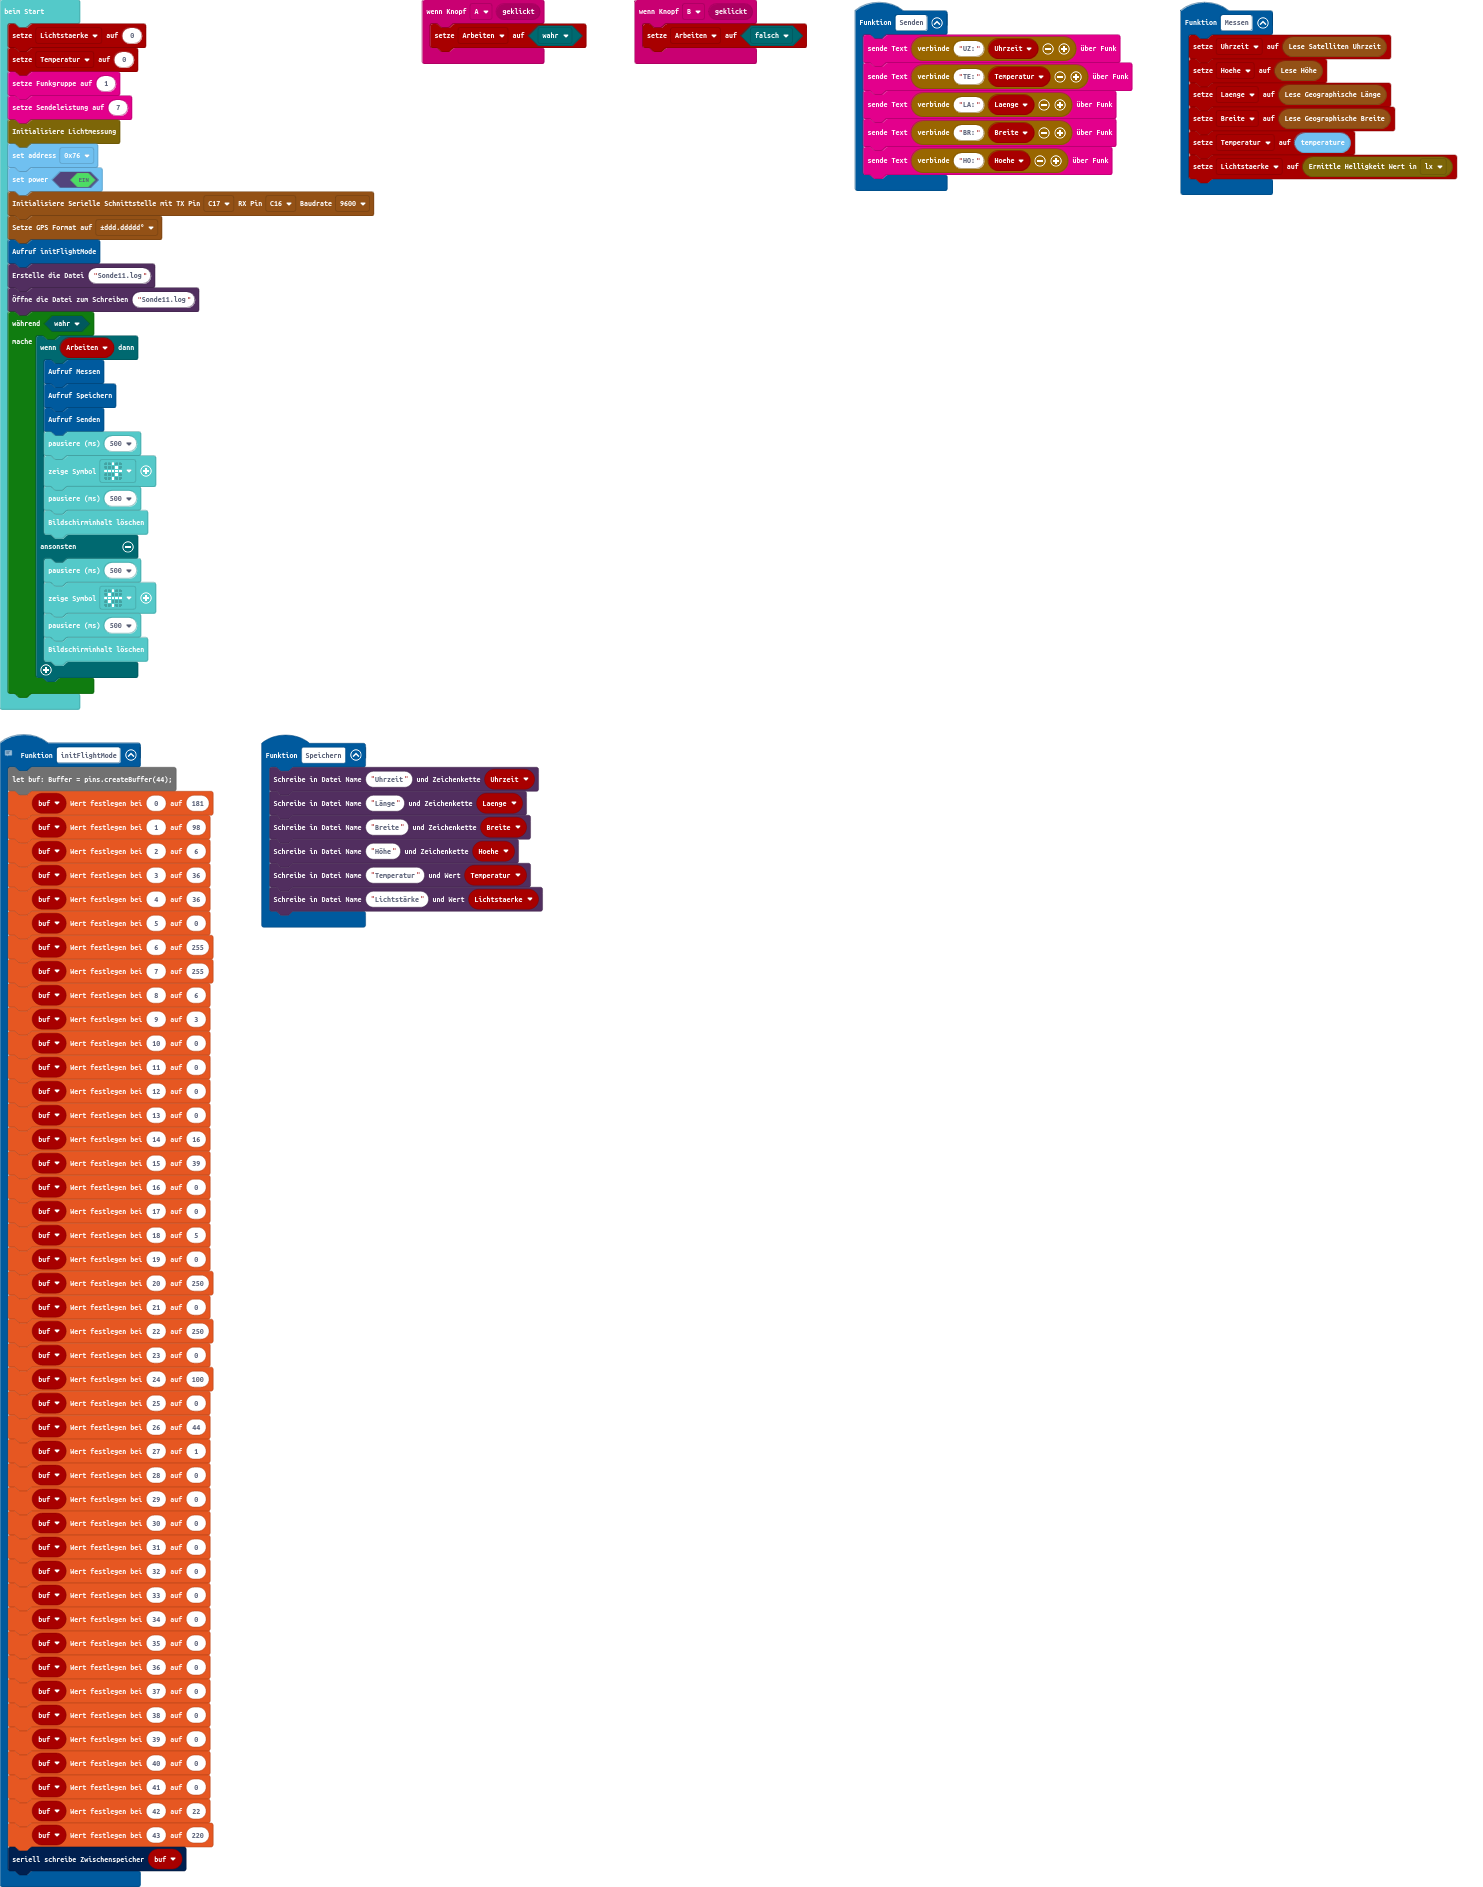
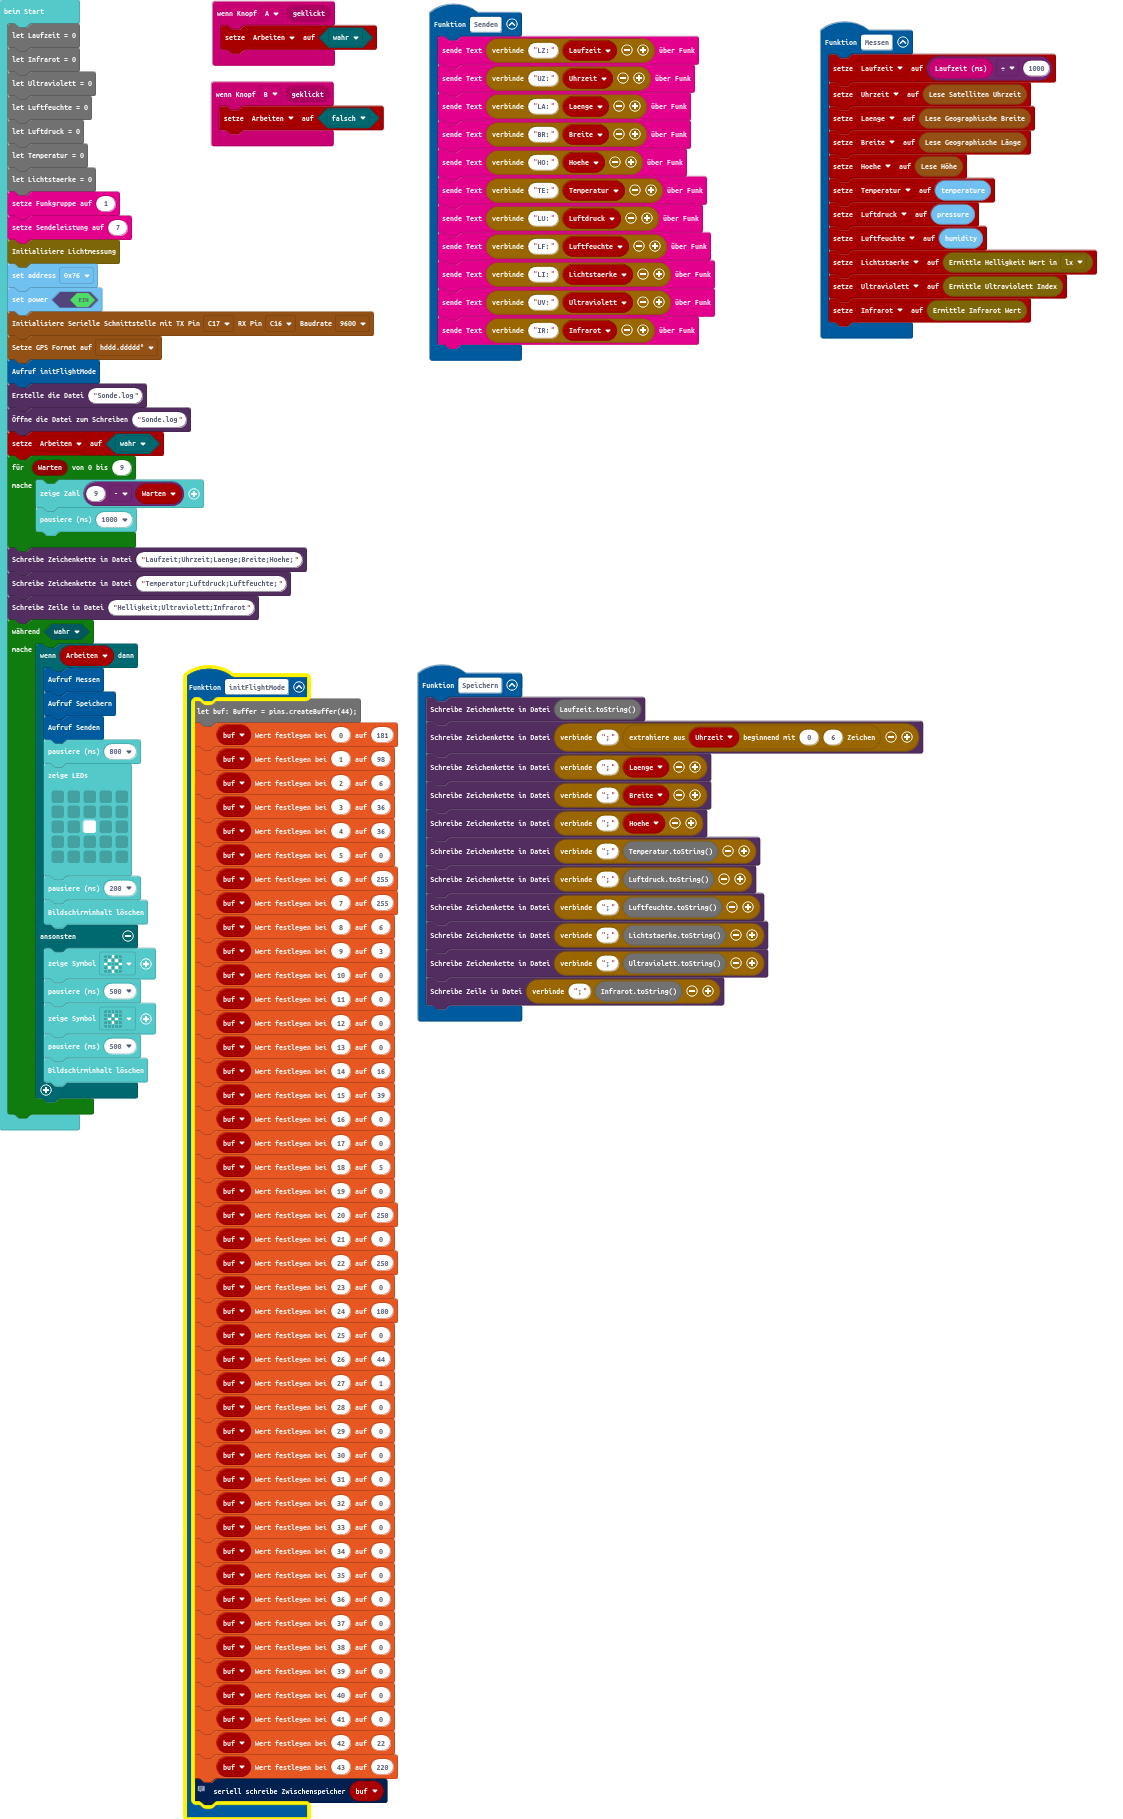
Bereit zum Start

diff --git a/main.ts b/main.ts
@@ -1,17 +1,28 @@
 function Senden () {
+    radio.sendString("LZ:" + Laufzeit)
     radio.sendString("UZ:" + Uhrzeit)
-    radio.sendString("TE:" + Temperatur)
     radio.sendString("LA:" + Laenge)
     radio.sendString("BR:" + Breite)
     radio.sendString("HO:" + Hoehe)
+    radio.sendString("TE:" + Temperatur)
+    radio.sendString("LU:" + Luftdruck)
+    radio.sendString("LF:" + Luftfeuchte)
+    radio.sendString("LI:" + Lichtstaerke)
+    radio.sendString("UV:" + Ultraviolett)
+    radio.sendString("IR:" + Infrarot)
 }
 function Messen () {
+    Laufzeit = input.runningTime() / 1000
     Uhrzeit = NEO6M_GPS.getGPSTime()
+    Laenge = NEO6M_GPS.getGPSLatitude()
+    Breite = NEO6M_GPS.getGPSLongitude()
     Hoehe = NEO6M_GPS.getAltitude()
-    Laenge = NEO6M_GPS.getGPSLongitude()
-    Breite = NEO6M_GPS.getGPSLatitude()
     Temperatur = bme280.temperature()
+    Luftdruck = bme280.pressure()
+    Luftfeuchte = bme280.humidity()
     Lichtstaerke = SI1145.readLight(ILLUMINANCE.LUX)
+    Ultraviolett = SI1145.readUVI()
+    Infrarot = SI1145.readIR()
 }
 input.onButtonEvent(Button.A, input.buttonEventClick(), function () {
     Arbeiten = true
@@ -19,7 +30,6 @@ input.onButtonEvent(Button.A, input.buttonEventClick(), function () {
 input.onButtonEvent(Button.B, input.buttonEventClick(), function () {
     Arbeiten = false
 })
-// NEO6M_GPS.writeConfig(buf)
 function initFlightMode () {
     let buf: Buffer = pins.createBuffer(44);
 buf[0] = 181
@@ -66,47 +76,71 @@ buf[0] = 181
     buf[41] = 0
     buf[42] = 22
     buf[43] = 220
+    // NEO6M_GPS.writeConfig(buf, 44)
     serial.writeBuffer(buf)
 }
 function Speichern () {
-    Qwiic_Openlog.writeStringValue("Uhrzeit", Uhrzeit)
-    Qwiic_Openlog.writeStringValue("Länge", Laenge)
-    Qwiic_Openlog.writeStringValue("Breite", Breite)
-    Qwiic_Openlog.writeStringValue("Höhe", Hoehe)
-    Qwiic_Openlog.writeValue("Temperatur", Temperatur)
-    Qwiic_Openlog.writeValue("Lichtstärke", Lichtstaerke)
+    Qwiic_Openlog.writeString(Laufzeit.toString())
+    Qwiic_Openlog.writeString(";" + Uhrzeit.substr(0, 6))
+    Qwiic_Openlog.writeString(";" + Laenge)
+    Qwiic_Openlog.writeString(";" + Breite)
+    Qwiic_Openlog.writeString(";" + Hoehe)
+    Qwiic_Openlog.writeString(";" + Temperatur.toString())
+    Qwiic_Openlog.writeString(";" + Luftdruck.toString())
+    Qwiic_Openlog.writeString(";" + Luftfeuchte.toString())
+    Qwiic_Openlog.writeString(";" + Lichtstaerke.toString())
+    Qwiic_Openlog.writeString(";" + Ultraviolett.toString())
+    Qwiic_Openlog.writeLine(";" + Infrarot.toString())
 }
 let Hoehe = ""
 let Breite = ""
 let Laenge = ""
 let Uhrzeit = ""
 let Arbeiten = false
+let Laufzeit = 0
+let Infrarot = 0
+let Ultraviolett = 0
+let Luftfeuchte = 0
+let Luftdruck = 0
 let Temperatur = 0
 let Lichtstaerke = 0
-Lichtstaerke = 0
-Temperatur = 0
 radio.setGroup(1)
 radio.setTransmitPower(7)
 SI1145.init_SI1145()
 bme280.setAddress(BME280_I2C_ADDRESS.ADDR_0x76)
 bme280.setPower(true)
 NEO6M_GPS.initGPS(SerialPin.C17, SerialPin.C16, BaudRate.BaudRate9600)
-NEO6M_GPS.setGPSFormat(GPS_Format.SIGNED_DEG_DEC)
+NEO6M_GPS.setGPSFormat(GPS_Format.DEG_DEC)
 initFlightMode()
-Qwiic_Openlog.createFile("Sonde11.log")
-Qwiic_Openlog.openFile("Sonde11.log")
+Qwiic_Openlog.createFile("Sonde.log")
+Qwiic_Openlog.openFile("Sonde.log")
+Arbeiten = true
+for (let Warten = 0; Warten <= 9; Warten++) {
+    basic.showNumber(9 - Warten)
+    basic.pause(1000)
+}
+Qwiic_Openlog.writeString("Laufzeit;Uhrzeit;Laenge;Breite;Hoehe;")
+Qwiic_Openlog.writeString("Temperatur;Luftdruck;Luftfeuchte;")
+Qwiic_Openlog.writeLine("Helligkeit;Ultraviolett;Infrarot")
 while (true) {
     if (Arbeiten) {
         Messen()
         Speichern()
         Senden()
-        basic.pause(500)
-        basic.showIcon(IconNames.ArrowEast)
-        basic.pause(500)
+        basic.pause(800)
+        basic.showLeds(`
+            . . . . .
+            . . . . .
+            . . # . .
+            . . . . .
+            . . . . .
+            `)
+        basic.pause(200)
         basic.clearScreen()
     } else {
+        basic.showIcon(IconNames.Diamond)
         basic.pause(500)
-        basic.showIcon(IconNames.ArrowWest)
+        basic.showIcon(IconNames.SmallDiamond)
         basic.pause(500)
         basic.clearScreen()
     }
